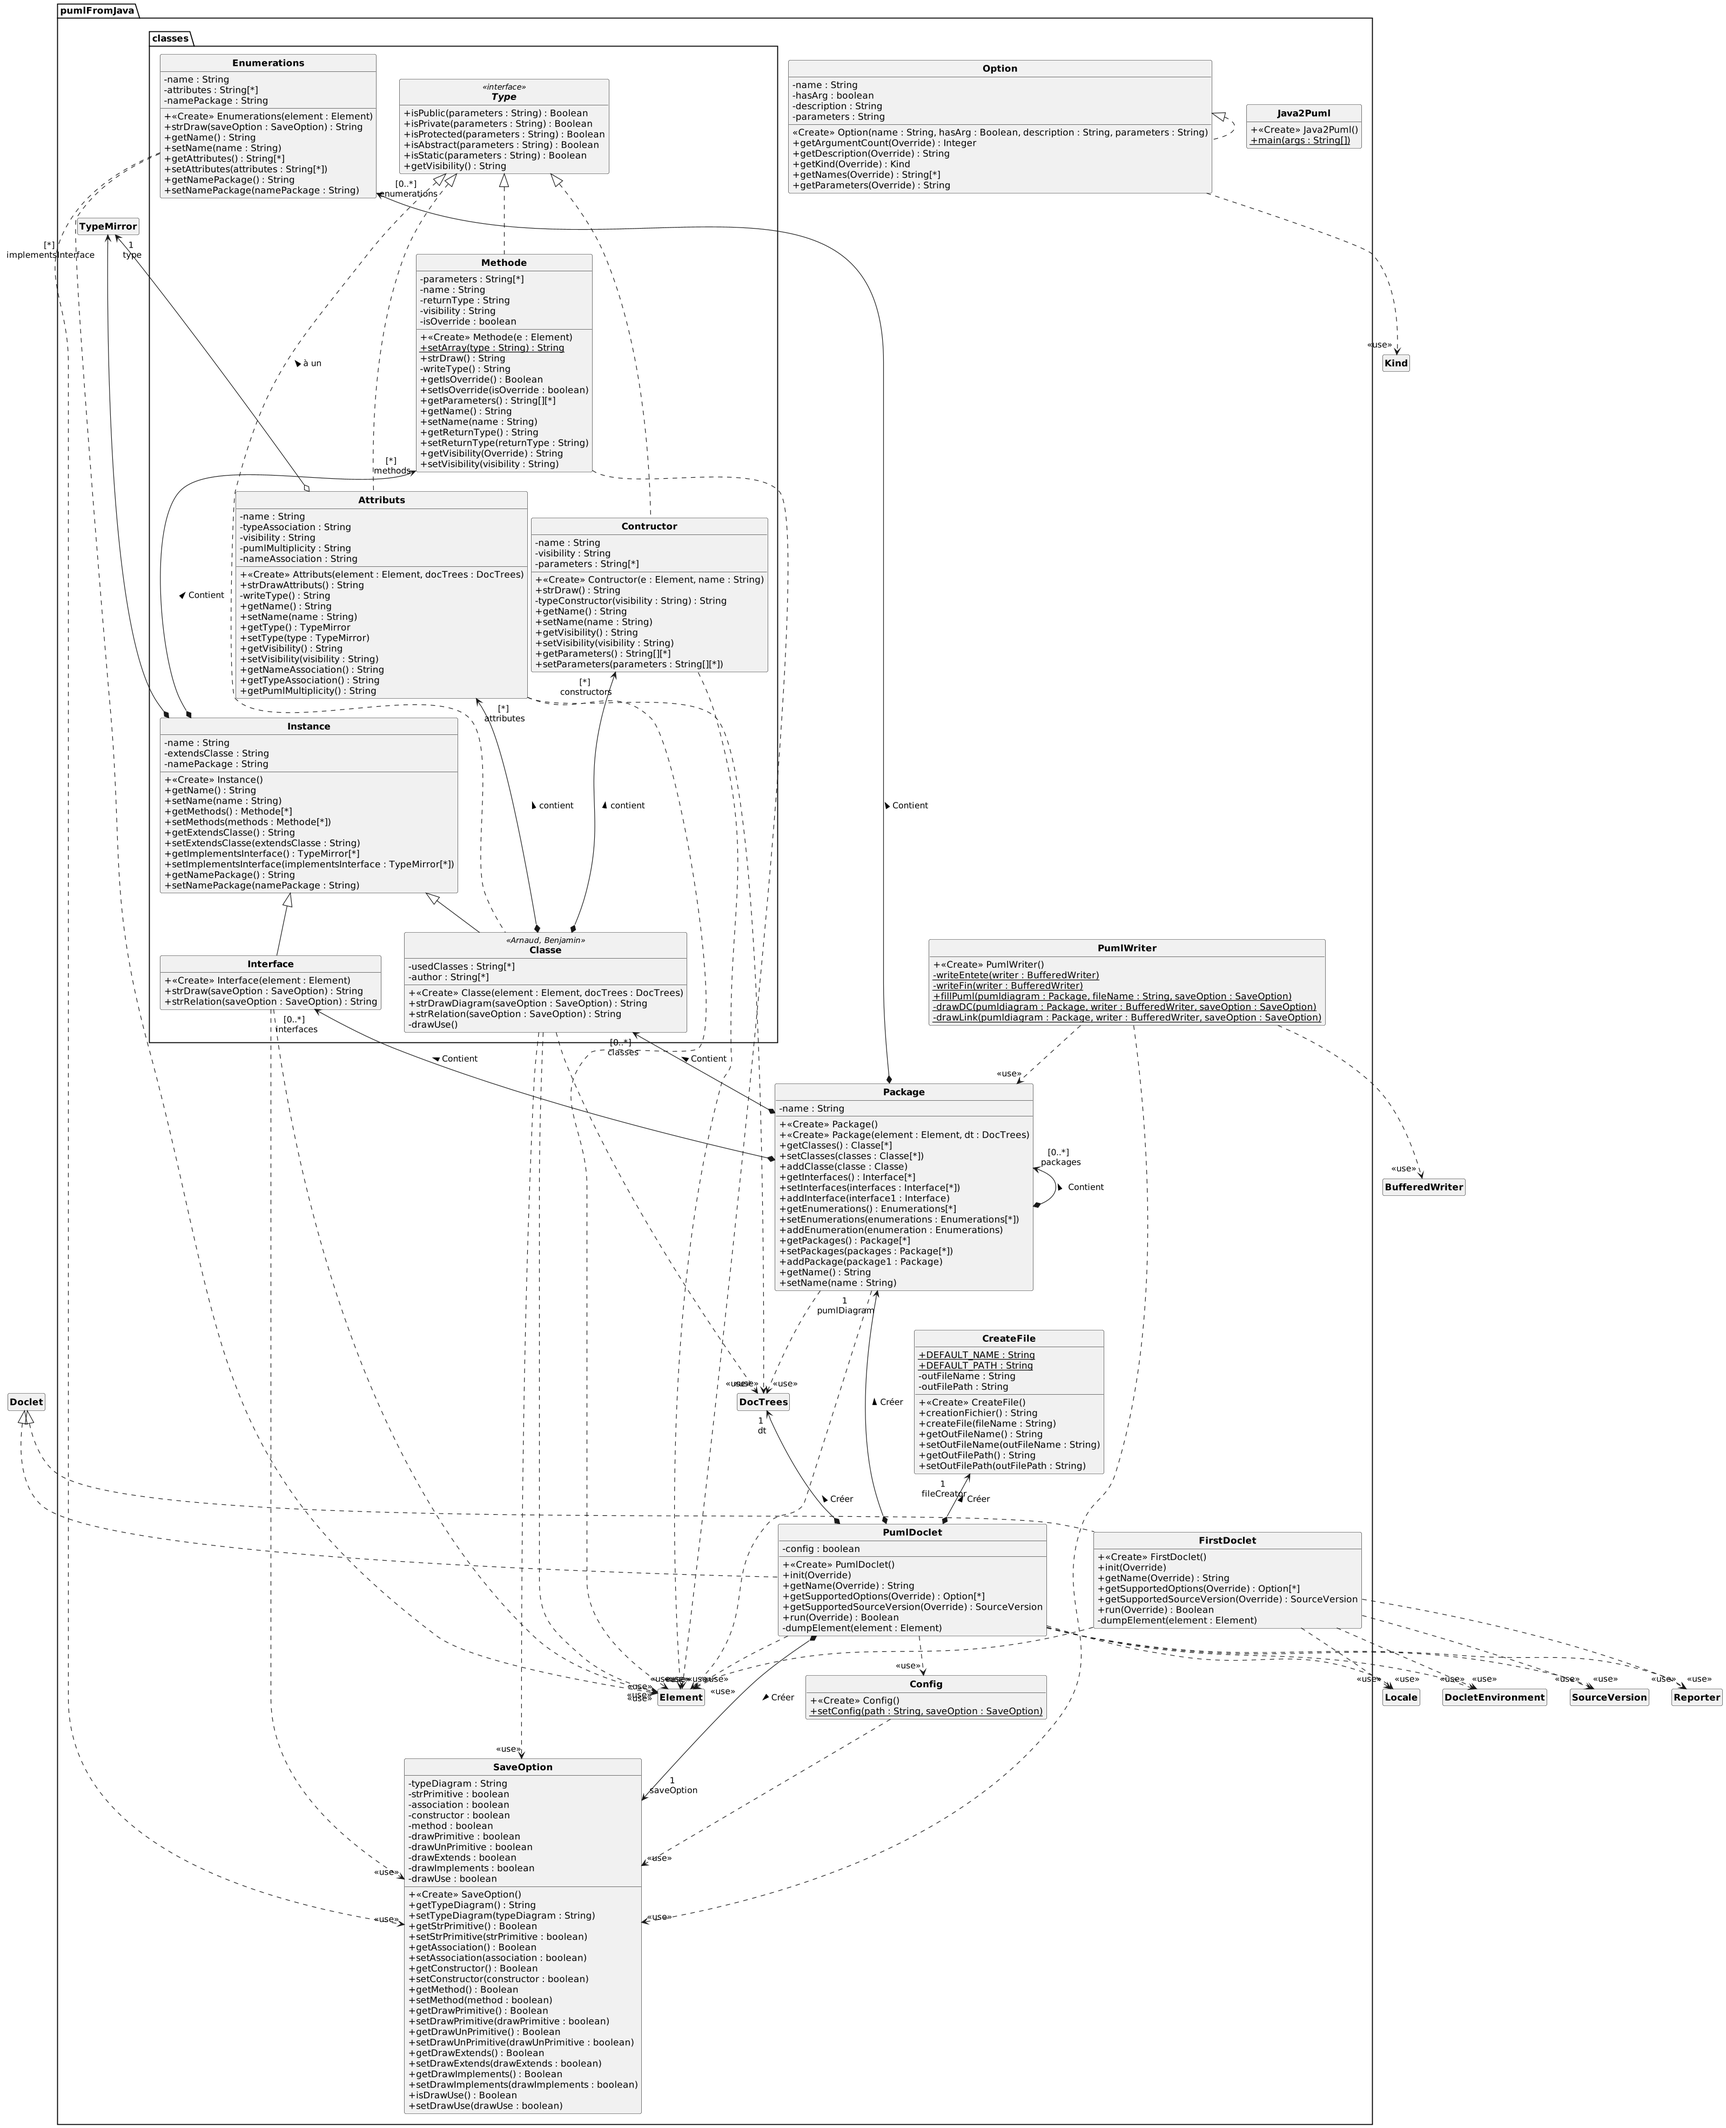
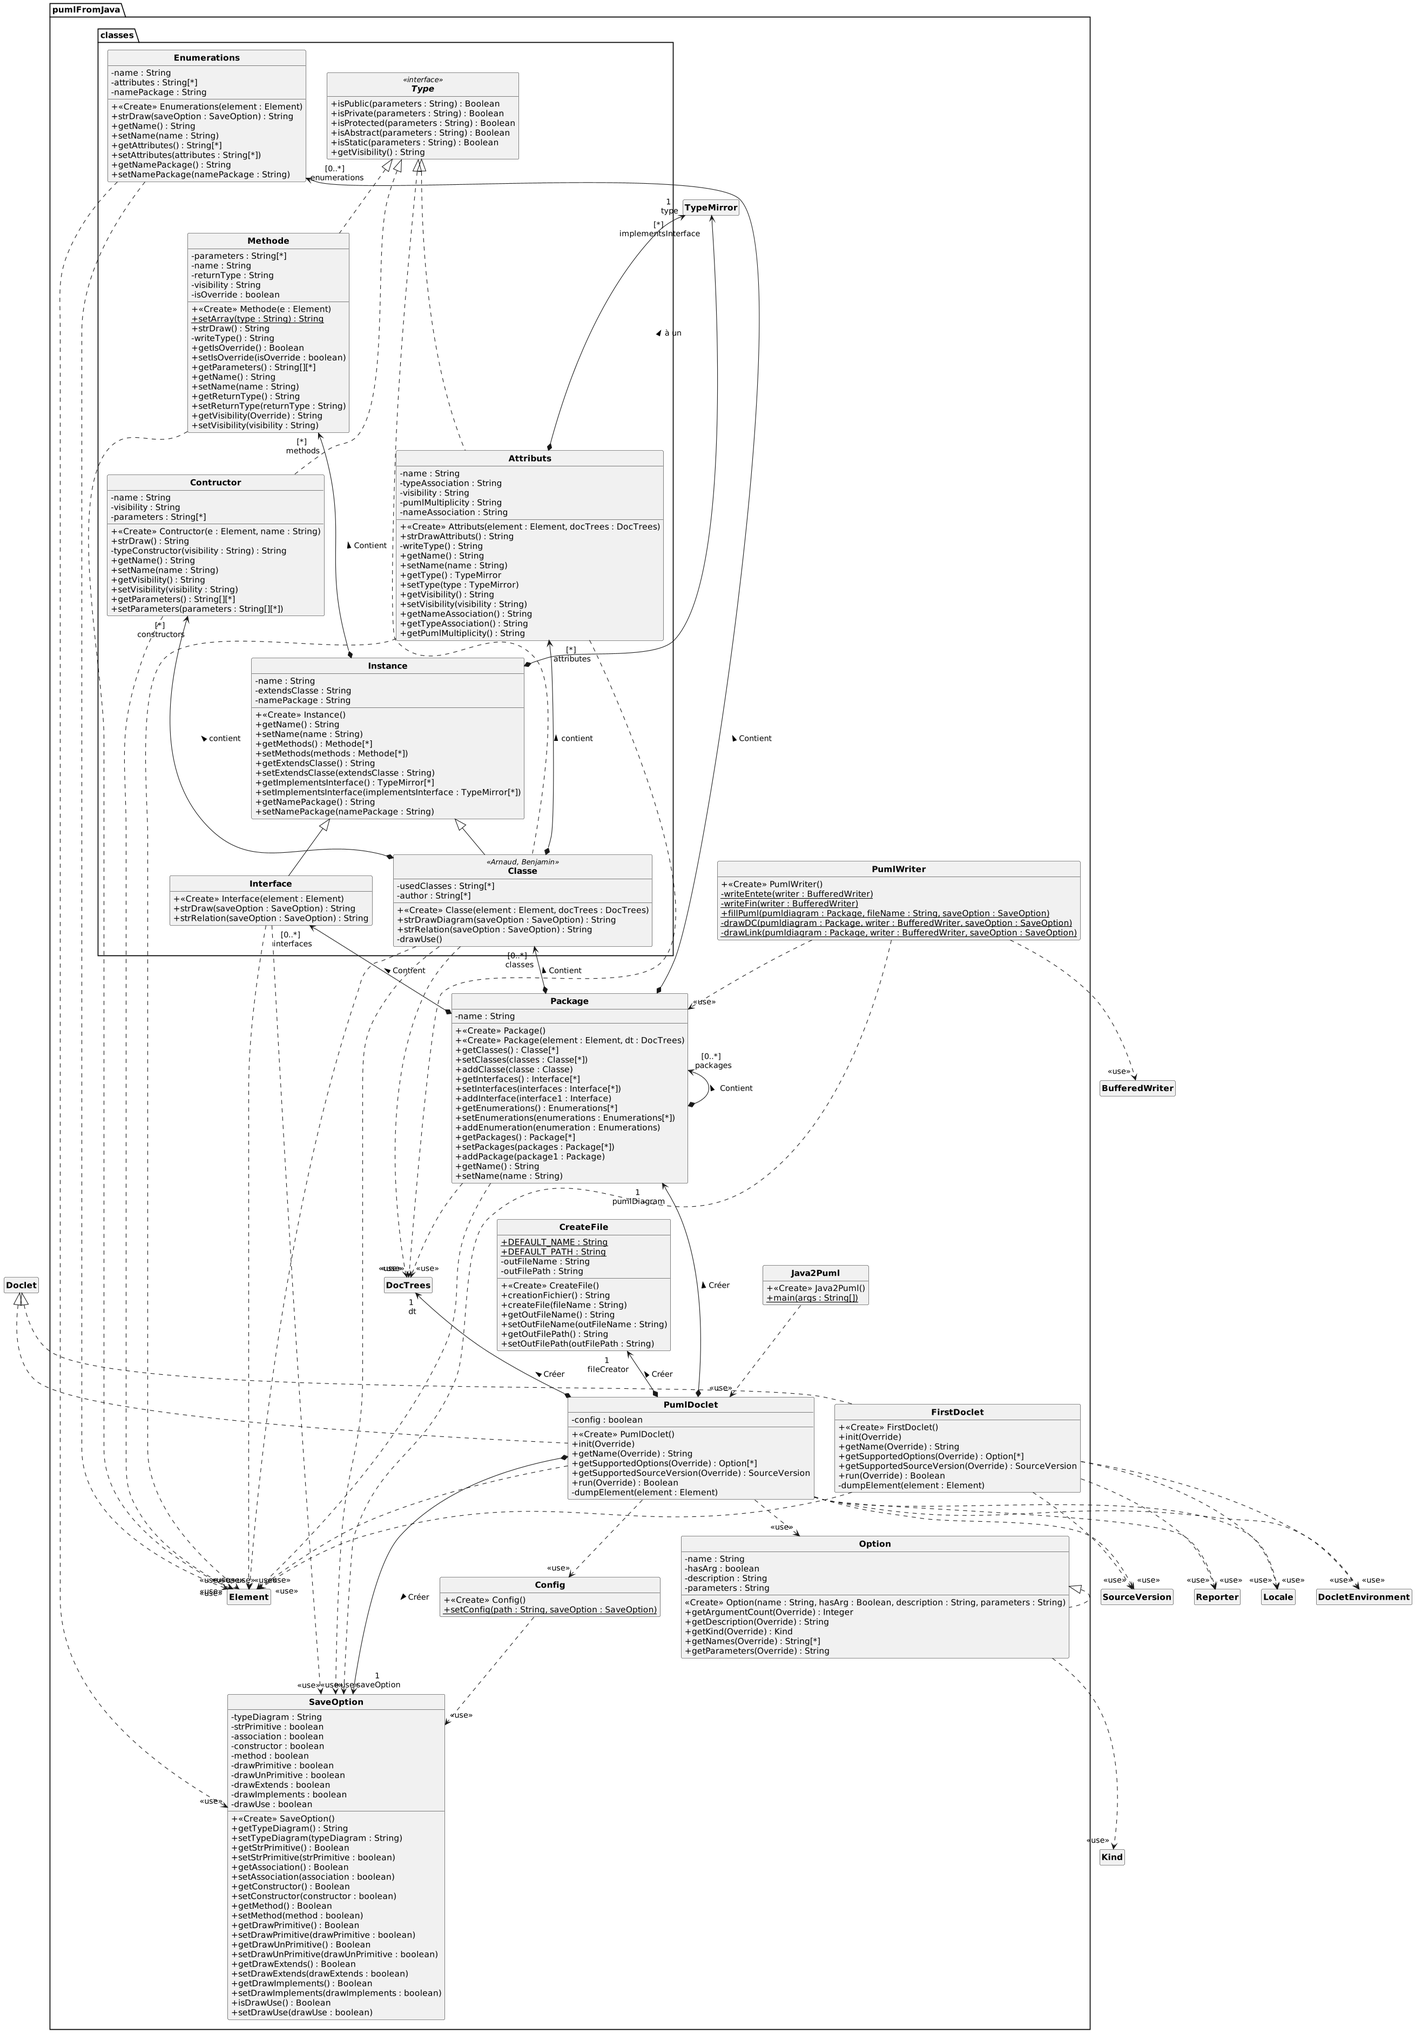
Semaine 5: - Ajout du DocTRee pour prendre en compte la javadoc - Rajout de la prise en compte des @Override - Rajout de la prise en compte des tag:  @pumlNameAssociation pour nommer les associations avec des attributs  @pumlUse pour rajouter des use  @puml Agregation et Composition pour leurs actio

diff --git a/src/pumlFromJava/Java2Puml.java b/src/pumlFromJava/Java2Puml.java
@@ -20,6 +20,8 @@ import java.util.spi.ToolProvider;
  * <ul>
  *     <li>toolProvider</li>
  * </ul>
+ *
+ * @pumlUse PumlDoclet
  */
 @Description("use: PumlDoclet;")
 public class Java2Puml {
@@ -28,6 +30,7 @@ public class Java2Puml {
      * Méthode main
      *
      * @param args String[]
+     * @pumlUse PumlDoclet
      */
     public static void main(String[] args) {
         ToolProvider toolProvider = ToolProvider.findFirst("javadoc").get();

diff --git a/src/pumlFromJava/PumlDoclet.java b/src/pumlFromJava/PumlDoclet.java
@@ -41,6 +41,7 @@ import java.util.Set;
  *
  * @pumlUse CreateFile
  * @pumlUse Config
+ * @pumlUse Option
  */
 public class PumlDoclet implements Doclet {
 

diff --git a/rapports/Rapport.md b/rapports/Rapport.md
@@ -142,4 +142,16 @@ Pour le DCA et le DCC de cette semaine, nous l'avons génerer depuis l'API puis 
 
 Nous avons réussi à produire un DCA et un DCC avec toutes les associations et les dépendances.
 Nos plus grandes difficultés ont été de comprendre comment fonctionnait l'API de javadoc et de la réutiliser pour produire notre diagramme.
-Nous avons aussi eu du mal à comprendre comment créer un DocTree car nous n'avion pas vu que DocletEnvironment avait une méthode pour cela.
+Nous avons aussi eu du mal à comprendre comment créer un DocTree car nous n'avions pas vu que DocletEnvironment avait une méthode pour cela.
+Pour finir, nous sommes vraiment content du résultat, car l'API est très souple notamment dans le choix des options ce qui permet de faire un diagramme très personnalisé.
+
+---
+
+__MICHEL__ Arnaud et __MORAWIEC__ Benjamin
+
+## Annexes
+
+### Diagramme de l'API
+
+![Diagramme DCC de l'API](../uml/Semaine5/DCC_API.png)
+![Diagramme DCA de l'API](../uml/Semaine5/DCA_API.png)
